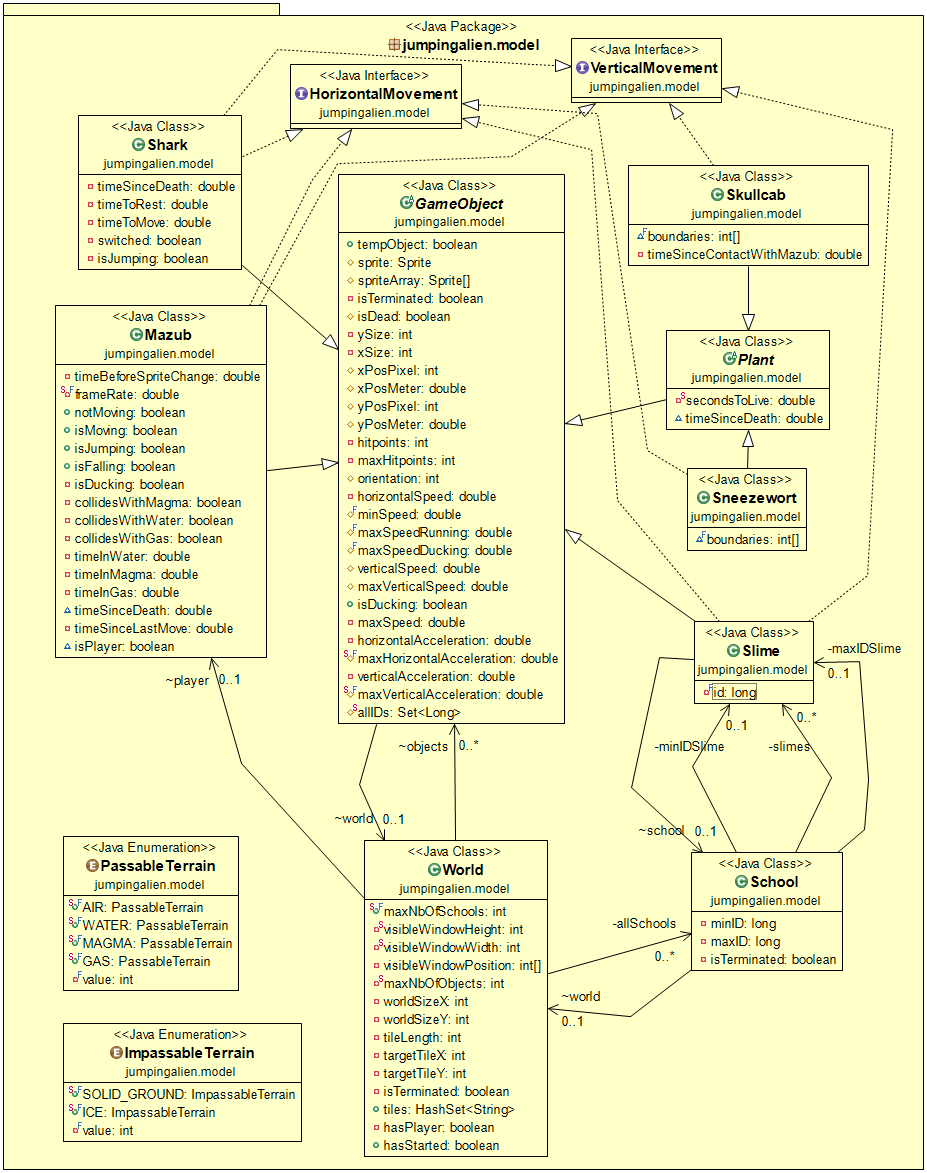
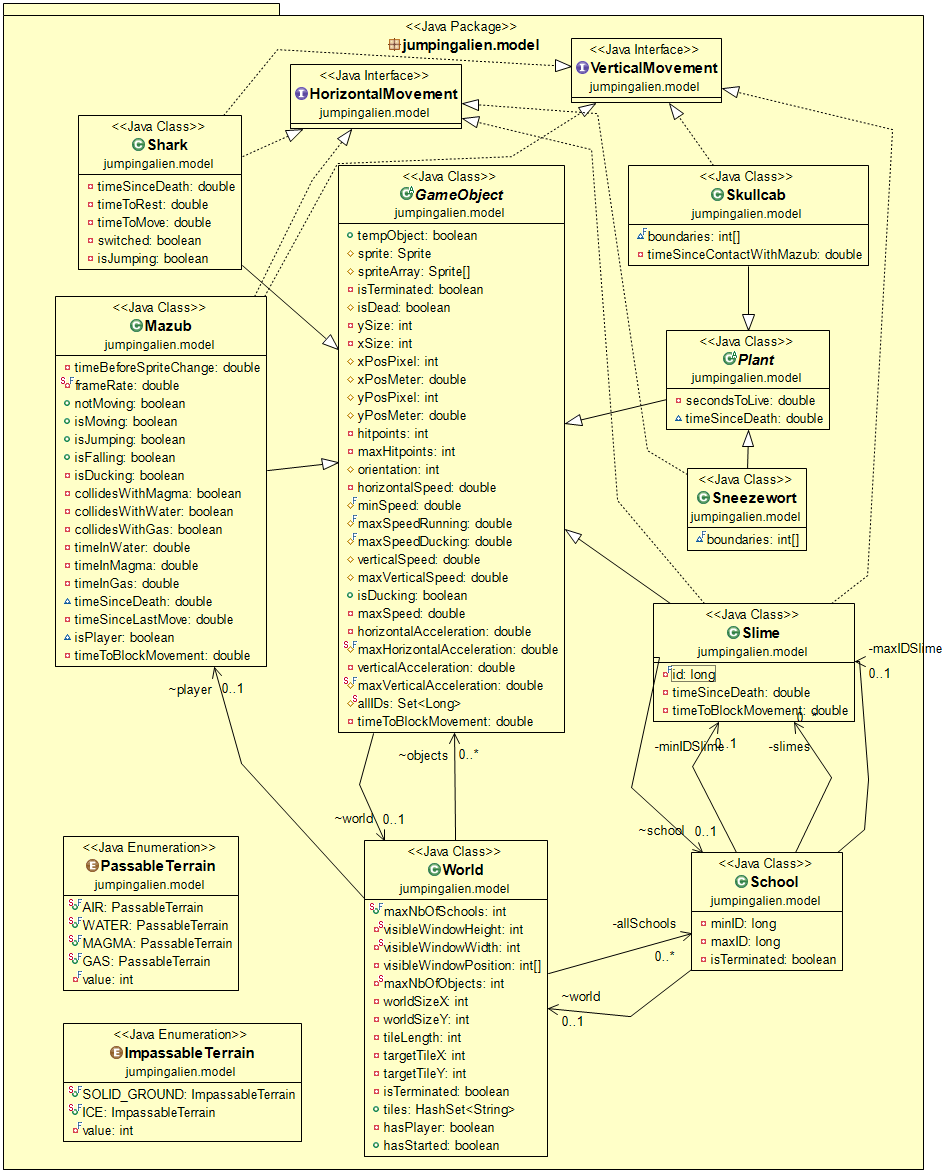
1083

diff --git a/OGP1819-JumpingAlien/src/jumpingalien/model/Slime.java b/OGP1819-JumpingAlien/src/jumpingalien/model/Slime.java
@@ -19,6 +19,13 @@ public class Slime extends GameObject implements Comparable<Slime>, HorizontalMo
 
     private final long id;
     School school;
+    private double timeSinceDeath;
+    private double timeToBlockMovement = 0;
+    private boolean contactWithGas;
+    private boolean contactWithMagma;
+    private boolean contactWithWater;
+    private double timeInWater;
+    private double timeInGas;
 
     public Slime(int pixelLeftX, int pixelBottomY, int pixelSizeX, int pixelSizeY, int hitpoints, int maxHitpoints,
 	    double maxHorizontalSpeedRunning, double maxHorizontalSpeedDucking, double minHorizontalSpeed,
@@ -40,9 +47,6 @@ public class Slime extends GameObject implements Comparable<Slime>, HorizontalMo
     }
 
     void setSchool(School school) {
-//	for (final Slime slime : school.getAllSlimes())
-//	    slime.changeHitPoints(-1);
-
 	if (school != null) {
 	    school.addSlime(this);
 	    this.school = school;
@@ -96,8 +100,182 @@ public class Slime extends GameObject implements Comparable<Slime>, HorizontalMo
 
     @Override
     public void advanceTime(double dt, double timeStep) {
+	if (!isDead()) {
+	    while (dt > timeStep && !isDead() && !isTerminated())
+		if (getTimeToBlockMovement() > timeStep) {
+		    stayInPosition(timeStep);
+		    setTimeToBlockMovement(getTimeToBlockMovement() - timeStep);
+		    dt -= timeStep;
+		} else {
+		    updatePosition(timeStep);
+		    dt -= timeStep;
+		}
+	    if (getTimeToBlockMovement() > dt) {
+		stayInPosition(dt);
+		setTimeToBlockMovement(getTimeToBlockMovement() - dt);
+		dt = 0;
+	    } else {
+		updatePosition(dt);
+		dt = 0;
+	    }
+	} else if (getTimeSinceDeath() < 0.6) {
+	    if (dt < 0.599 - getTimeSinceDeath())
+		setTimeSinceDeath(dt + getTimeSinceDeath());
+	    else {
+		setTimeSinceDeath(dt + getTimeSinceDeath());
+		getWorld().removeObject(this);
+		terminate();
+	    }
+
+	} else if (dt < 0.599 - getTimeSinceDeath())
+	    setTimeSinceDeath(dt + getTimeSinceDeath());
+	else {
+	    setTimeSinceDeath(dt + getTimeSinceDeath());
+	    if (getWorld() != null)
+		getWorld().removeObject(this);
+	    terminate();
+	}
+
+    }
+
+    private void stayInPosition(double timeStep) {
 	// TODO Auto-generated method stub
 
     }
 
+    private double getTimeToBlockMovement() {
+	return timeToBlockMovement;
+    }
+
+    public void setTimeToBlockMovement(double dt) {
+	timeToBlockMovement = dt;
+
+    }
+
+    private void setTimeSinceDeath(double d) {
+	timeSinceDeath = d;
+
+    }
+
+    private double getTimeSinceDeath() {
+	return timeSinceDeath;
+    }
+
+    private void updatePosition(double dt) {
+	final double newPosX = getXPositionActual() + getOrientation() * Math.abs(getHorizontalSpeedMeters()) * dt
+		+ 0.5 * getOrientation() * Math.abs(getHorizontalAcceleration()) * dt * dt;
+	final double newPosY = getYPositionActual() + getVerticalSpeedMeters() * dt
+		+ 0.5 * getVerticalAcceleration() * dt * dt;
+	final double newSpeedX = getOrientation() * Math.abs(getHorizontalSpeedMeters())
+		+ getOrientation() * Math.abs(getHorizontalAcceleration()) * dt;
+	final double newSpeedY = getVerticalSpeedMeters() + getVerticalAcceleration() * dt;
+	final int xSize = getXsize();
+	final int ySize = getYsize();
+
+	if (getOrientation() == 1)
+	    setSprite(getSpriteArray()[0]);
+	if (getOrientation() == -1)
+	    setSprite(getSpriteArray()[1]);
+
+	if (getWorld() != null) {
+	    long id = 1;
+	    while (hasSlimeWithID(id))
+		id += 1;
+	    final Slime newSlime = new Slime((int) (newPosX * 100), (int) (newPosY * 100), xSize, ySize, 1, 1, 0, 0, 0,
+		    0, 0, 0, true, id, getSchool(), getSpriteArray());
+	    if (getWorld().canPlaceGameObjectAdvanceTime(newSlime, this)) {
+		setXPositionActual(newPosX);
+		setYPositionActual(newPosY);
+		setHorizontalSpeedMeters(newSpeedX);
+		setVerticalSpeedMeters(newSpeedY);
+	    } else {
+		setHorizontalSpeedMeters(0);
+		setVerticalSpeedMeters(0);
+		setHorizontalAcceleration(0.7);
+	    }
+
+	    if (getWorld() != null) {
+		for (final School school : getWorld().getAllSchools())
+		    for (final Slime slime : school.getAllSlimes())
+			if (newSlime.collidesWith(slime) && this != slime && newSlime != slime) {
+			    setOrientation(getOrientation() * -1);
+			    if (getSchool().getAllSlimes().size() < slime.getSchool().getAllSlimes().size())
+				switchSchool(slime.getSchool());
+//			    else if (getSchool().getAllSlimes().size() > slime.getSchool().getAllSlimes().size())
+//				slime.switchSchool(getSchool());
+			}
+		if (getWorld().getPlayer() != null)
+		    if (newSlime.collidesWith(getWorld().getPlayer())) {
+			changeHitPoints(-30);
+			changeSchoolHitPoints();
+//			getWorld().getPlayer().changeHitPoints(-20);
+			getWorld().getPlayer().setTimeToBlockMovement(0.6);
+			setTimeToBlockMovement(0.6);
+			setHorizontalSpeedMeters(0);
+		    }
+	    }
+	    newSlime.terminate();
+	}
+	if (getWorld() != null)
+	    setContactTiles();
+	else {
+	    contactWithGas = false;
+	    contactWithMagma = false;
+	    contactWithWater = false;
+	}
+
+	if (contactWithWater)
+	    timeInWater += dt;
+	else
+	    timeInWater = 0;
+
+	if (contactWithGas)
+	    timeInGas += dt;
+	else
+	    timeInGas = 0;
+
+	if (timeInWater >= 0.4) {
+	    timeInWater -= 0.4;
+	    if (!contactWithMagma) {
+		changeHitPoints(-4);
+		changeSchoolHitPoints();
+	    }
+	}
+
+	if (timeInGas >= 0.3) {
+	    timeInGas -= 0.3;
+	    if (!contactWithMagma)
+		changeHitPoints(2);
+	}
+	if (contactWithMagma) {
+	    isDead = true;
+	    timeSinceDeath = 0.0;
+	}
+
+	if (getHitpoints() == 0)
+	    isDead = true;
+    }
+
+    private void changeSchoolHitPoints() {
+	if (getSchool() != null)
+	    for (final Slime slime : getSchool().getAllSlimes())
+		if (slime != this)
+		    slime.changeHitPoints(-1);
+
+    }
+
+    private void setContactTiles() {
+	contactWithGas = false;
+	contactWithMagma = false;
+	contactWithWater = false;
+	for (final int[] tile : getAllOverlappingTiles()) {
+	    if (getWorld().getGeologicalFeatureTile(tile) == PassableTerrain.GAS.getValue())
+		contactWithGas = true;
+	    if (getWorld().getGeologicalFeatureTile(tile) == PassableTerrain.MAGMA.getValue())
+		contactWithMagma = true;
+	    if (getWorld().getGeologicalFeatureTile(tile) == PassableTerrain.WATER.getValue())
+		contactWithWater = true;
+	}
+
+    }
 }

diff --git a/OGP1819-JumpingAlien/src/jumpingalien/model/GameObject.java b/OGP1819-JumpingAlien/src/jumpingalien/model/GameObject.java
@@ -208,8 +208,10 @@ public abstract class GameObject {
 	    isDead = true;
 	    setHitpoints(0);
 	    removeWorld();
-	    if (this instanceof Slime)
+	    if (this instanceof Slime) {
 		((Slime) this).removeSchool();
+		allIDs.remove(((Slime) this).getIdentification());
+	    }
 
 	}
     }
@@ -511,6 +513,7 @@ public abstract class GameObject {
      */
     protected void changeHitPoints(int change) {
 	setHitpoints(getHitpoints() + change);
+
     }
 
     /**
@@ -1025,5 +1028,7 @@ public abstract class GameObject {
     private static Set<Long> getAllIDs() {
 	return allIDs;
     }
+
+    private double timeToBlockMovement;
 
 }

diff --git a/OGP1819-JumpingAlien/src/jumpingalien/model/Shark.java b/OGP1819-JumpingAlien/src/jumpingalien/model/Shark.java
@@ -150,13 +150,11 @@ public class Shark extends GameObject implements HorizontalMovement, VerticalMov
 	else
 	    setSprite(getSpriteArray()[0]);
 	if (getTimeToMove() == 0.5 && (isInWater() || isStandingOnImpassableTerrain())) {
-	    // setMaxSpeed();
-	    setVerticalSpeedMeters(getMaxVerticalSpeedMeters());
-	    if (isUnderWater()) {
+	    setMaxSpeed();
+	    setVerticalSpeedMeters(2);
+	    if (isUnderWater())
 		setVerticalAcceleration(0.0);
-		setVerticalSpeedMeters(0);
-	    }
-
+//		setVerticalSpeedMeters(0);
 	    else
 		setVerticalAcceleration(maxVerticalAcceleration);
 	} else if (isInWater())

diff --git a/OGP1819-JumpingAlien/src/jumpingalien/model/World.java b/OGP1819-JumpingAlien/src/jumpingalien/model/World.java
@@ -729,6 +729,10 @@ public class World {
 	if (!hasPlayer() && gameObject instanceof Mazub)
 	    setPlayer((Mazub) gameObject);
 
+	if (gameObject instanceof Slime && ((Slime) gameObject).getSchool() != null
+		&& !getAllSchools().contains(((Slime) gameObject).getSchool()))
+	    allSchools.add(((Slime) gameObject).getSchool());
+
 	objects.add(gameObject);
 	gameObject.world = this;
     }
@@ -771,7 +775,7 @@ public class World {
      * Returns the player for this world
      */
     @Basic
-    public GameObject getPlayer() {
+    public Mazub getPlayer() {
 	return player;
     }
 

diff --git a/OGP1819-JumpingAlien/tests/jumpingalien/tests/FullFacadeTest.java b/OGP1819-JumpingAlien/tests/jumpingalien/tests/FullFacadeTest.java
@@ -2033,6 +2033,7 @@ class FullFacadeTest {
 	facade.advanceWorldTime(world_250_400, 0.02);
 	facade.endMove(mazoubToBounceWith);
 	assertEquals(2.0 + 0.02018, facade.getActualPosition(mazoubToBounceWith)[0], LOW_PRECISION);
+	System.out.println(facade.getVelocity(movingSlime)[0]);
 	assertTrue(facade.getVelocity(movingSlime)[0] > 0.0);
 	// The slime needs 0.2401 seconds to collide with mazub again.
 	// The collision has no effect, because no 0.6 seconds have passed since the

diff --git a/OGP1819-JumpingAlien/src/jumpingalien/model/Mazub.java b/OGP1819-JumpingAlien/src/jumpingalien/model/Mazub.java
@@ -662,4 +662,15 @@ public class Mazub extends GameObject implements HorizontalMovement, VerticalMov
      */
     boolean isPlayer;
 
+    private double timeToBlockMovement;
+
+    private double getTimeToBlockMovement() {
+	return timeToBlockMovement;
+    }
+
+    public void setTimeToBlockMovement(double dt) {
+	timeToBlockMovement = dt;
+
+    }
+
 }

diff --git a/OGP1819-JumpingAlien/src/jumpingalien/model/Plant.java b/OGP1819-JumpingAlien/src/jumpingalien/model/Plant.java
@@ -80,7 +80,7 @@ public abstract class Plant extends GameObject {
     /**
      * A timer to keep track how long the plant has left to live.
      */
-    private static double secondsToLive;
+    private double secondsToLive;
 
     /**
      * Returns the boundaries in which the plant will move.

diff --git a/OGP1819-JumpingAlien/src/jumpingalien/facade/Facade.java b/OGP1819-JumpingAlien/src/jumpingalien/facade/Facade.java
@@ -311,7 +311,7 @@ public class Facade implements IFacade {
     public Mazub getMazub(World world) throws ModelException {
 	if (world.getPlayer() == null)
 	    return null;
-	return (Mazub) world.getPlayer();
+	return world.getPlayer();
     }
 
     @Override
